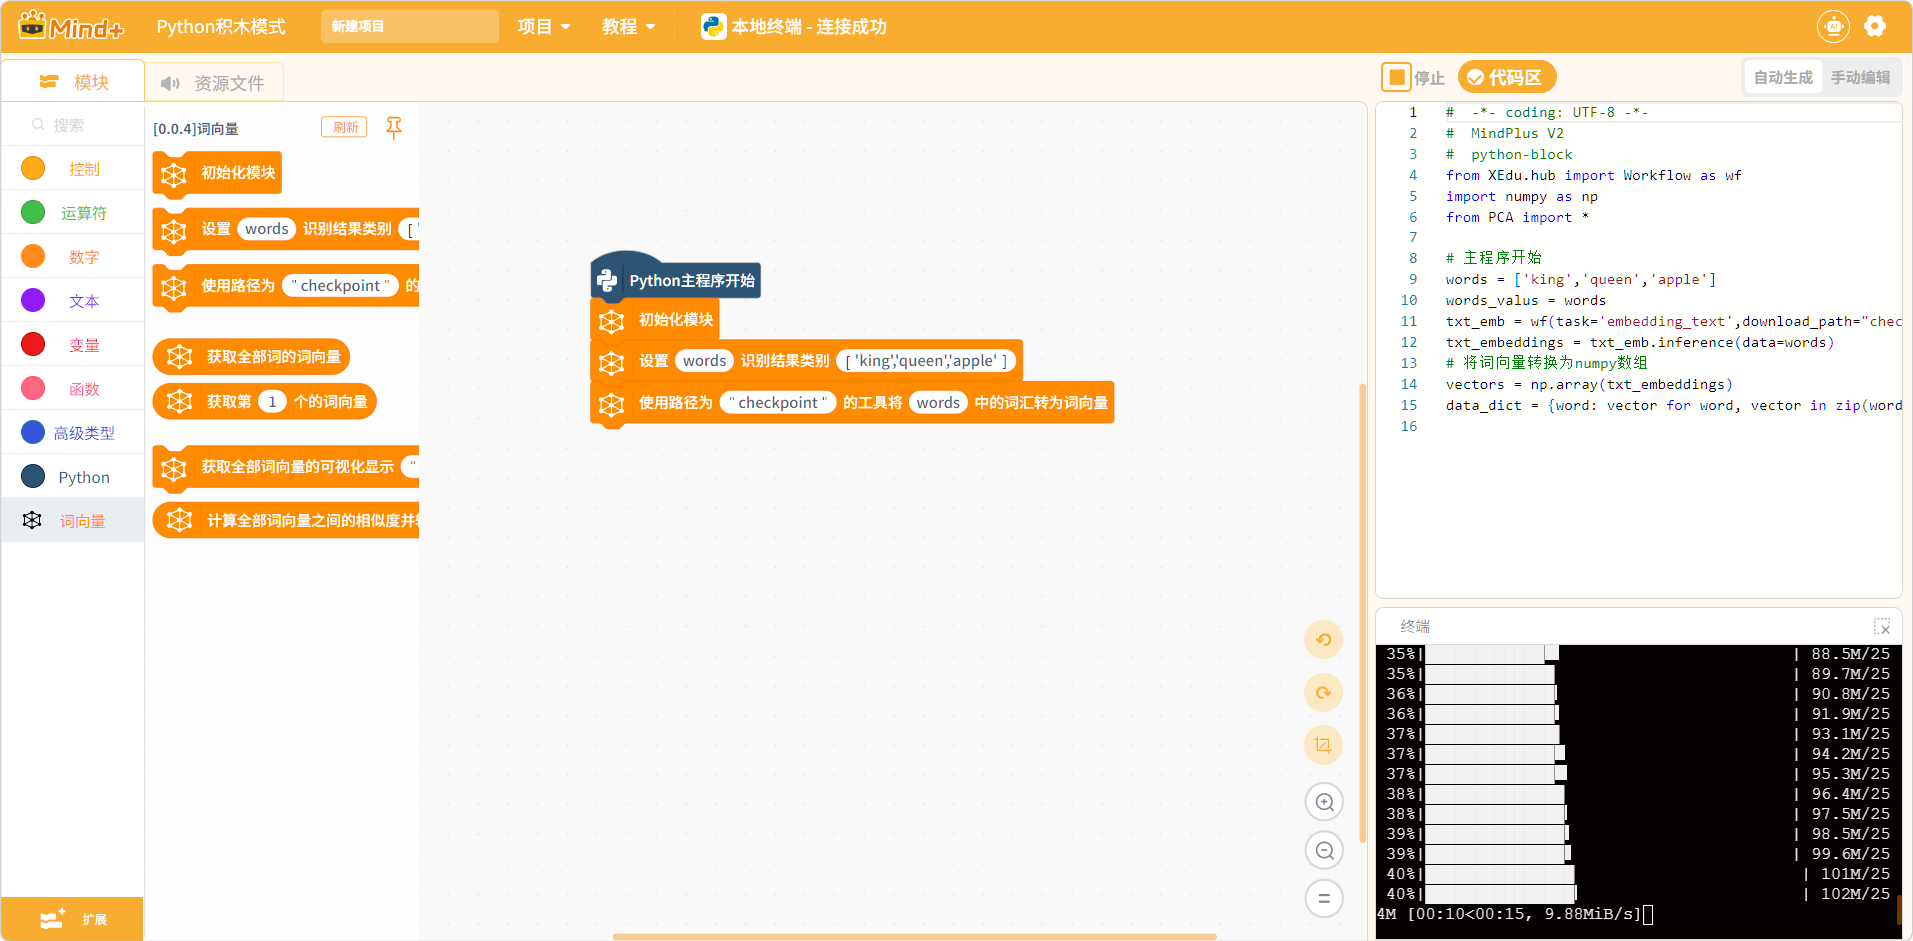
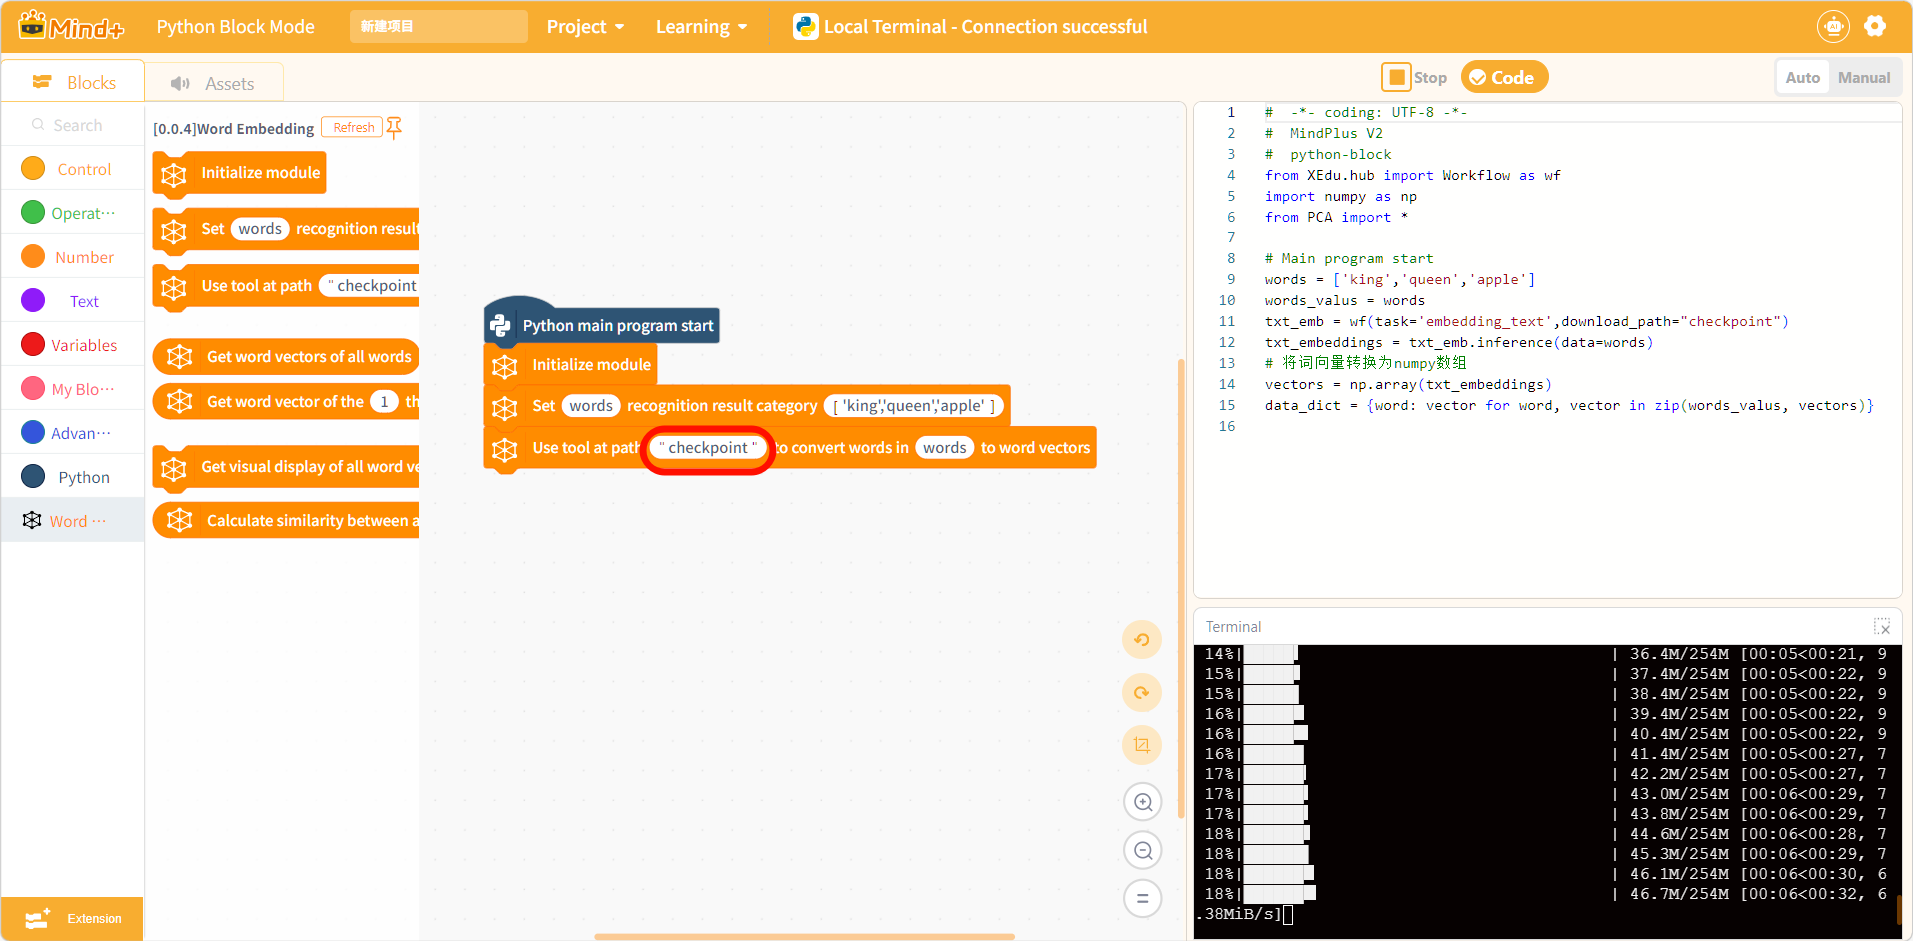
update zh->en

diff --git a/README.md b/README.md
@@ -1,132 +1,132 @@
-# 词向量扩展库
-![词向量主视图](extension/public/cover.png)
+# Word Embedding Extension
+![Word Vector Main View](extension/public/cover.png)
 
-## 简介
-用于在 Mind+ Python 模式下进行词向量（Word Embedding）处理的扩展库。本扩展基于 BERT 模型，可以将文本词汇转换为高维向量表示，支持词向量可视化和相似度计算，适用于自然语言处理和人工智能教学场景。
+## Introduction
+An extension library for word embedding (Word Embedding) processing in Mind+ Python mode. This extension is based on the BERT model and can convert text vocabulary into high-dimensional vector representations, supporting word vector visualization and similarity calculation, suitable for natural language processing and AI teaching scenarios.
 
-- 扩展 ID：berttext
-- 版本：0.0.4
-- 作者：Nick
-- 模式：Python 积木模式（python-block）
+- Extension ID: berttext
+- Version: 0.0.4
+- Author: Nick
+- Mode: Python Block Mode (python-block)
 
-## 版本更新记录
+## Version Update History
 
-| 版本 | 更新日期 | 更新内容 | 
+| Version | Update Date | Update Content | 
 | --- | --- | --- | 
-| 0.0.4 | 2026-03-19 | Mind+ V1 到 V2 适配 | 
+| 0.0.4 | 2026-03-19 | Mind+ V1 to V2 adaptation | 
 
 
-## 适用硬件
-| 设备 | 是否支持 |
+## Compatible Hardware
+| Device | Supported |
 | --- | --- |
-| 电脑（Windows/macOS/Linux） | ✓ |
-| UNIHIKER 行空板 | ✓ |
-| 树莓派 | ✓ |
+| Computer (Windows/macOS/Linux) | ✓ |
+| UNIHIKER Board | ✓ |
+| Raspberry Pi | ✓ |
 
-> 本扩展为纯软件扩展，不需要外接硬件传感器，适用于支持 Python 环境的设备。
+> This extension is a pure software extension that does not require external hardware sensors and is suitable for devices that support Python environment.
 
-## 功能概览
-提供以下积木能力：
-| opcode | 能力说明 |
+## Feature Overview
+Provides the following block capabilities:
+| opcode | Description |
 | --- | --- |
-| init | 初始化词向量模块 |
-| readcap1 | 设置词汇列表和识别类别 |
-| readcapq | 使用指定路径的模型将词汇转为词向量 |
-| readcap1a1 | 获取所有词的词向量 |
-| readcap1a | 获取指定位置的词向量 |
-| readcap1b | 生成词向量的可视化显示文件 |
-| readcap2 | 计算所有词向量之间的相似度 |
+| init | Initialize word vector module |
+| readcap1 | Set vocabulary list and recognition categories |
+| readcapq | Convert words to word vectors using model from specified path |
+| readcap1a1 | Get word vectors for all words |
+| readcap1a | Get word vector at specified position |
+| readcap1b | Generate visualization file for word vectors |
+| readcap2 | Calculate similarity between all word vectors |
 
-## 依赖库说明
-本扩展依赖以下 Python 库：
-- **xedu-python**：XEdu 人工智能教育库
-- **plotly**：交互式可视化库
-- **scikit-learn**：机器学习库（用于 PCA 降维）
-- **onnxruntime**：ONNX 模型推理引擎
+## Dependency Libraries
+This extension depends on the following Python libraries:
+- **xedu-python**: XEdu AI education library
+- **plotly**: Interactive visualization library
+- **scikit-learn**: Machine learning library (for PCA dimensionality reduction)
+- **onnxruntime**: ONNX model inference engine
 
-这些库在首次使用扩展时会自动安装。
+These libraries will be automatically installed when using the extension for the first time.
 
-## 积木说明
+## Block Description
 
-### 初始化模块
-- **初始化模块**：在使用词向量功能前必须先调用，用于初始化模块环境。
+### Initialization Module
+- **Initialize Module**: Must be called before using word vector features to initialize the module environment.
 
-### 配置类
-- **设置 [变量名] 识别结果类别 [词汇列表]**：设置要处理的词汇列表。
-  - `变量名`：存储词汇列表的变量名（如 words）
-  - `词汇列表`：用逗号分隔的词汇，如 `'king','queen','apple'`
+### Configuration Class
+- **Set [variable name] recognition result categories [vocabulary list]**: Set the vocabulary list to be processed.
+  - `variable name`: Variable name to store the vocabulary list (e.g., words)
+  - `vocabulary list`: Comma-separated words, e.g., `'king','queen','apple'`
 
-- **使用路径为 [模型路径] 的工具将 [变量名] 中的词汇转为词向量**：使用 BERT 模型将词汇转换为向量。
-  - `模型路径`：BERT 模型文件所在目录（如 checkpoint）
-  - `变量名`：之前设置的词汇列表变量名
+- **Use tool at path [model path] to convert words in [variable name] to word vectors**: Use BERT model to convert words to vectors.
+  - `model path`: Directory where BERT model files are located (e.g., checkpoint)
+  - `variable name`: Previously set vocabulary list variable name
 
-### 数据获取类
-- **获取全部词的词向量**：返回所有词汇的词向量矩阵。
-- **获取第 [序号] 个的词向量**：返回指定位置词汇的词向量（序号从 1 开始）。
+### Data Acquisition Class
+- **Get word vectors for all words**: Returns the word vector matrix for all words.
+- **Get word vector at position [index]**: Returns the word vector at the specified position (index starts from 1).
 
-### 可视化类
-- **获取全部词向量的可视化显示 [文件路径]**：生成词向量的 3D 可视化 HTML 文件。
-  - `文件路径`：输出的 HTML 文件名（如 word_vectors.html）
+### Visualization Class
+- **Get visualization display of all word vectors [file path]**: Generate a 3D visualization HTML file of word vectors.
+  - `file path`: Output HTML file name (e.g., word_vectors.html)
 
-### 分析类
-- **计算全部词向量之间的相似度并输出**：计算并返回词向量之间的余弦相似度矩阵。
+### Analysis Class
+- **Calculate and output similarity between all word vectors**: Calculate and return the cosine similarity matrix between word vectors.
 
-## 积木图
-![词向量积木图](assets/block.png)
+## Block Diagram
+![Word Vector Block Diagram](assets/block.png)
 
-## 教程示例
-以电脑为例，演示如何使用词向量扩展：
+## Tutorial Examples
+Using a computer as an example to demonstrate how to use the word vector extension:
 
-### 第一步：导入文本嵌入模型
-在将词汇转成词向量时,需要用到embedding_text.onnx模型。有以下几种使用方式:
+### Step 1: Import Text Embedding Model
+When converting words to word vectors, the embedding_text.onnx model is required. There are the following usage methods:
 
-**方式一:使用绝对路径(推荐)**
-将模型下载到本地后,使用绝对路径指定模型位置,例如 `D:\checkpoint` 或 `C:\AI\checkpoint`,避免将大文件放入项目中。这种方式只需下载一次,后续使用非常方便。
+**Method 1: Using Absolute Path (Recommended)**
+After downloading the model locally, use an absolute path to specify the model location, such as `D:\checkpoint` or `C:\AI\checkpoint`, to avoid putting large files in the project. This method only requires downloading once and is very convenient for subsequent use.
 ![](assets/PixPin_2026-03-19_13-35-29.png)
 
-**方式二:自动下载**
-在联网条件下直接运行图形化指令,程序如果没有在电脑本地检测到模型,会自动从云端下载。
+**Method 2: Automatic Download**
+When connected to the internet, run the graphical instructions directly. If the program does not detect the model locally on the computer, it will automatically download from the cloud.
 
 ![](assets/PixPin_2026-03-19_12-12-50.png)
 
-> **注意**：不建议将 checkpoint 模型文件夹放入项目资源文件中,因为模型文件较大,会导致项目保存和加载异常。
+> **Note**: It is not recommended to put the checkpoint model folder into the project resource files, as the model files are large and will cause abnormal project saving and loading.
 
-### 第二步：词转词向量并打印
+### Step 2: Convert Words to Word Vectors and Print
 
-可以使用以下代码，将词汇表中的每一个词转成词向量并打印输出。获取全部词向量的输出是一个二维数组，里面依次放了每一个词向量，每一个词向量是一个长度为512的一维数组，这是因为文本嵌入模型从词中提取了512个特征并转成了数字化输出。
+You can use the following code to convert each word in the vocabulary to a word vector and print the output. The output of getting all word vectors is a two-dimensional array, which contains each word vector in sequence. Each word vector is a one-dimensional array of length 512, because the text embedding model extracts 512 features from words and converts them into numerical output.
 
-![](assets/PixPin_2026-03-19_12-14-41.png)
+![](assets/PixPin_2026-03-19_13-11-18.png)
 
-### 第三步，词向量可视化观察
+### Step 3: Word Vector Visualization Observation
 
-由于词向量是一个数组，比较抽象，使用以下程序，可以将转成的词向量转成三维坐标系的一个点，帮助直观的观察各个词向量之间的关系
+Since word vectors are arrays and relatively abstract, using the following program, you can convert the word vectors into points in a three-dimensional coordinate system, which helps to intuitively observe the relationship between word vectors.
 
 ![](assets/PixPin_2026-03-19_13-36-32.png)
 
-导出html文件并打开，可以观察词向量在三维空间坐标系的位置，这个空间可以理解为是语义空间。这个html文档可以用鼠标进行互动，在语义空间中词义相似的词向量，分布位置接近
+Export and open the HTML file to observe the position of word vectors in the three-dimensional space coordinate system. This space can be understood as semantic space. This HTML document can be interacted with using the mouse. In the semantic space, word vectors with similar meanings are distributed close to each other.
 
 ![](assets/PixPin_2026-03-19_13-13-13.png)
 
-### 第四步，向量之间的相似度计算
+### Step 4: Similarity Calculation Between Vectors
 
-使用以下指令计算词向量之间的余弦相似度，余弦相似度越近，词义相似度越高
+Use the following instructions to calculate the cosine similarity between word vectors. The closer the cosine similarity, the higher the semantic similarity.
 
 ![](assets/PixPin_2026-03-19_13-37-34.png)
 
 
 
-## 常见问题
+## FAQ
 
-**Q: 提示找不到模型文件？**
-- A: 请确保 checkpoint 目录存在且包含 BERT 模型文件。可从 XEdu 官网下载预训练模型。
+**Q: Prompt that model file cannot be found?**
+- A: Please ensure that the checkpoint directory exists and contains BERT model files. Pre-trained models can be downloaded from the XEdu official website.
 
-**Q: 词向量计算很慢？**
-- A: BERT 模型推理需要一定计算资源，建议在性能较好的电脑上运行，或减少词汇数量。
+**Q: Word vector calculation is slow?**
+- A: BERT model inference requires certain computing resources. It is recommended to run on a computer with better performance or reduce the number of words.
 
-**Q: 可视化文件打不开？**
-- A: 请使用 Chrome、Edge、Firefox 等现代浏览器打开 HTML 文件。
+**Q: Visualization file cannot be opened?**
+- A: Please use modern browsers such as Chrome, Edge, Firefox to open HTML files.
 
-**Q: 相似度结果不符合预期？**
-- A: 词向量的语义相似度取决于模型训练数据，建议使用常见词汇进行测试。
+**Q: Similarity results do not meet expectations?**
+- A: The semantic similarity of word vectors depends on the model training data. It is recommended to use common words for testing.
 
 
